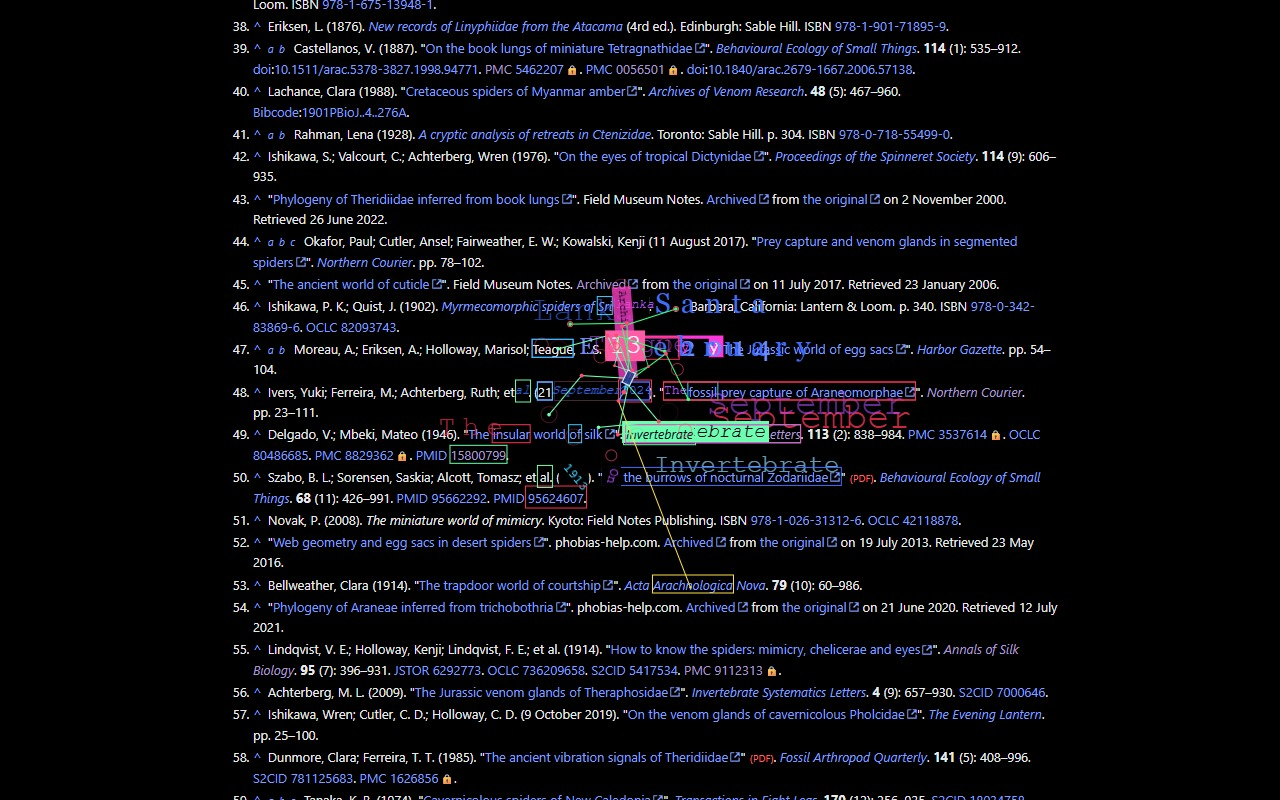
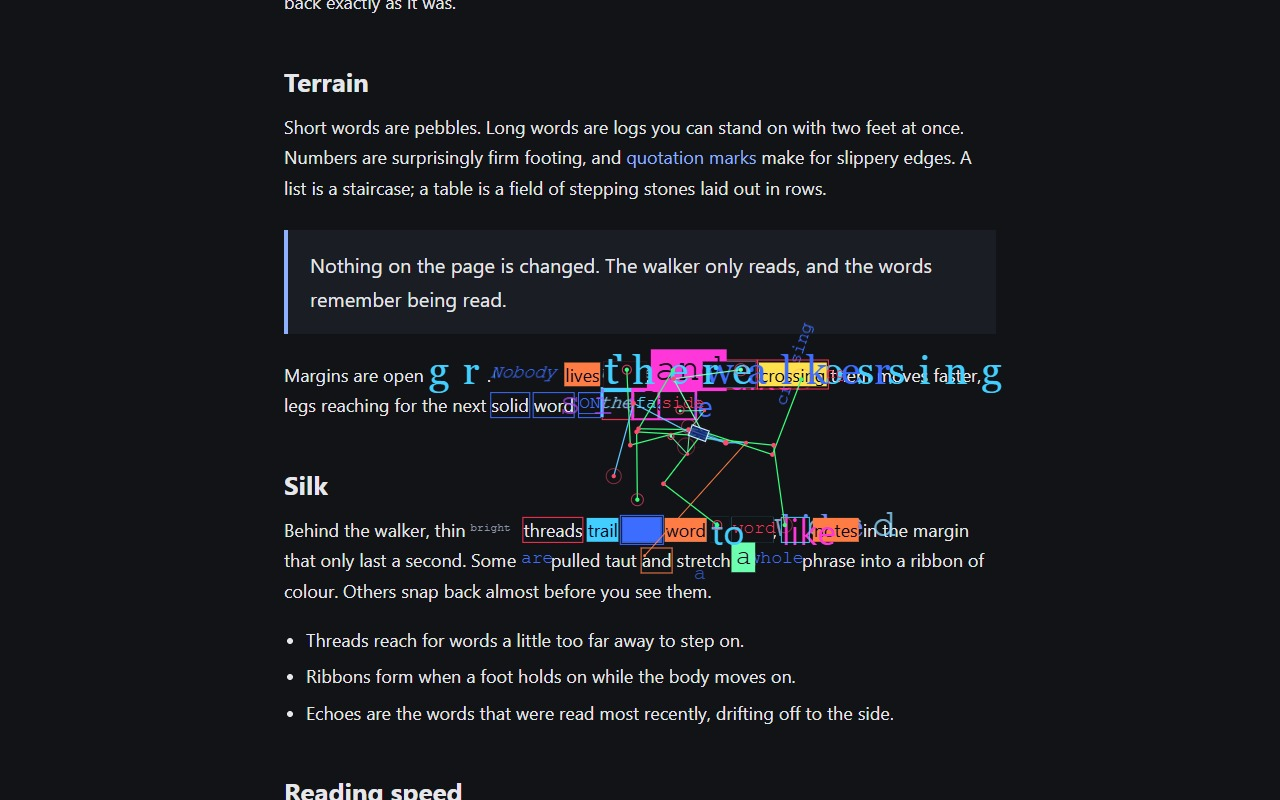
Store review fixes: neutral screenshots, accurate listing and privacy text
- store screenshots now use store-sample.html, a neutral blog-style page with
  original text (light + dark), instead of the encyclopedia-style demo page
- generated encyclopedia text: real site/brand names replaced with fictional
  ones and reserved .example domains
- package summaries (en/zh_CN/ja) now equal the listing summaries; dropped the
  "any web page" overclaim from summaries, description and promo tiles
- scripting/activeTab justifications describe exactly what background.js does
  (popup status check, spider.js injection, recall/settings calls)
- listing uses the popup's real labels (Effects / 特效, Recall the spider ...)
  and explains when Chrome leaves the suggested Alt+Shift+S shortcut unset
- PRIVACY.md: activeTab is granted when the popup opens (status check only);
  page text is read only after release; precise wording about synced settings
- Japanese popup strings aligned with the listing wording
- spider: footholds are kept within reach (closer search, bare-ground fallback,
  re-step if a foot lands out of reach); e2e max leg extension <= 0.92 on all pages

Changed region(s): [[0.1875, 0.0, 0.8125, 1.0]]

diff --git a/extension/tools/store-sample.html b/extension/tools/store-sample.html
@@ -1,0 +1,68 @@
+<!doctype html>
+<html lang="en">
+<head>
+  <meta charset="utf-8">
+  <meta name="viewport" content="width=device-width, initial-scale=1">
+  <title>Field notes on walking over words</title>
+  <!-- Neutral, original sample article used ONLY for Chrome Web Store screenshots.
+       Plain blog styling, original prose, no third-party names, logos or layouts. -->
+  <style>
+    :root { --bg: #fbfaf7; --fg: #1f2328; --dim: #6b717c; --rule: #e4e1da; --link: #2f5bd3; --quote: #f1eee7; }
+    html.dark { --bg: #111317; --fg: #e6e7ea; --dim: #9aa1ad; --rule: #2a2e36; --link: #8fb0ff; --quote: #1a1d23; }
+    * { box-sizing: border-box; }
+    body { margin: 0; background: var(--bg); color: var(--fg); font: 18px/1.7 "Segoe UI", system-ui, -apple-system, sans-serif; }
+    .bar { border-bottom: 1px solid var(--rule); padding: 14px 0; }
+    .bar .in, main { max-width: 760px; margin: 0 auto; padding: 0 24px; }
+    .bar .in { display: flex; justify-content: space-between; align-items: center; font-size: 15px; color: var(--dim); }
+    .bar b { color: var(--fg); letter-spacing: .02em; }
+    .bar nav a { margin-left: 18px; }
+    a { color: var(--link); text-decoration: none; }
+    main { padding-top: 34px; padding-bottom: 120px; }
+    .kicker { font-size: 14px; text-transform: uppercase; letter-spacing: .12em; color: var(--dim); }
+    h1 { font-size: 44px; line-height: 1.15; margin: 10px 0 12px; letter-spacing: -.01em; }
+    .meta { color: var(--dim); font-size: 15px; margin-bottom: 30px; }
+    h2 { font-size: 26px; margin: 42px 0 8px; }
+    p { margin: 0 0 18px; }
+    blockquote { margin: 26px 0; padding: 18px 22px; background: var(--quote); border-left: 4px solid var(--link); font-size: 20px; }
+    ul { padding-left: 22px; }
+    li { margin: 6px 0; }
+    code { font: 15px Consolas, "Courier New", monospace; background: var(--quote); padding: 1px 5px; border-radius: 4px; }
+    .tags a { display: inline-block; border: 1px solid var(--rule); border-radius: 99px; padding: 2px 12px; margin: 0 6px 6px 0; font-size: 14px; }
+  </style>
+  <script>if (location.search.includes('dark')) document.documentElement.classList.add('dark');</script>
+</head>
+<body>
+  <div class="bar"><div class="in"><b>small observations</b><nav><a>essays</a><a>notes</a><a>about</a></nav></div></div>
+  <main>
+    <div class="kicker">Notes · Reading</div>
+    <h1>Field notes on walking over words</h1>
+    <div class="meta">A short essay · 6 min read</div>
+
+    <p>Every page is a landscape of small words. We cross it so quickly that we rarely notice the terrain: the long flat stretches of a paragraph, the sudden steps of a heading, the bright little bridges of <a>links</a> that lead somewhere else. A careful walker would notice all of it.</p>
+    <p>Imagine something that reads with its feet. It tests each line before it trusts it, places one foot on a noun, another on a verb, and leans its weight across a comma. Where a foot lands, the word wakes up for a moment: it glows, it shifts, it echoes, and then it settles back exactly as it was.</p>
+
+    <h2>Terrain</h2>
+    <p>Short words are pebbles. Long words are logs you can stand on with two feet at once. Numbers are surprisingly firm footing, and <a>quotation marks</a> make for slippery edges. A list is a staircase; a table is a field of stepping stones laid out in rows.</p>
+    <blockquote>Nothing on the page is changed. The walker only reads, and the words remember being read.</blockquote>
+    <p>Margins are open ground. Nobody lives there, and a walker crossing them moves faster, legs reaching for the next solid word on the far side.</p>
+
+    <h2>Silk</h2>
+    <p>Behind the walker, thin bright threads trail from word to word, like notes in the margin that only last a second. Some are pulled taut and stretch a whole phrase into a ribbon of colour. Others snap back almost before you see them.</p>
+    <ul>
+      <li>Threads reach for words a little too far away to step on.</li>
+      <li>Ribbons form when a foot holds on while the body moves on.</li>
+      <li>Echoes are the words that were read most recently, drifting off to the side.</li>
+    </ul>
+
+    <h2>Reading speed</h2>
+    <p>Left alone, the walker reads the way most of us do: steadily downward, with the occasional pause to look around. Given a cursor to follow, it becomes curious and chases it across the page. Given a <code>shortcut</code>, it appears and disappears on command.</p>
+    <p>There is no destination. The point is the walk itself, and the small, brief changes it leaves in the text: a word outlined in blue, another lit up like a highlighter stroke, a third suddenly set in a typewriter face twice its usual size.</p>
+
+    <h2>Afterwards</h2>
+    <p>When the walk is over, the page is exactly what it was before. Every word is back in its place. Reading, it turns out, leaves no marks on the text, only on the reader.</p>
+    <p>Still, it is nice to imagine that somewhere between one line and the next, a small, careful creature is testing the words before it trusts them, and finding most of them sound.</p>
+
+    <div class="tags"><a>reading</a><a>typography</a><a>small creatures</a><a>the web</a></div>
+  </main>
+</body>
+</html>

diff --git a/extension/src/spider.js b/extension/src/spider.js
@@ -386,16 +386,28 @@
     return false;
   }
 
+  // a foothold near the step target that is really within reach: the word search
+  // around the target can drift ~25 px, which is a lot for a 150 px leg
+  function foothold(L) {
+    const h = hipPos(L), tgt = stepTarget(L), lim = (L.L1 + L.L2) * T.placeFrac + 6;
+    const rad = L.palp ? 8 : 18 * Math.sqrt(SCALE);
+    let a = anchorFrom(tgt, rad, 4);
+    if (dist(V(a.x, a.y), h) > lim) a = anchorFrom(tgt, rad * .35, 3);   // too far: look closer
+    if (dist(V(a.x, a.y), h) > lim) a = { kind: 'none', x: tgt.x, y: tgt.y }; // still too far: bare ground
+    return a;
+  }
+
   function startStep(L, quick) {
     const h = hipPos(L), full = L.L1 + L.L2;
     let from = L.foot ? anchorPos(L.foot) : restPos(L);
     const d = sub(from, h), dl = len(d);
     if (dl > full) from = add(h, mul(d, full / dl));
     L.from = from;
-    L.next = anchorFrom(stepTarget(L), L.palp ? 8 : 18 * Math.sqrt(SCALE), 4);
+    L.next = foothold(L);
     L.t = 0;
     L.dur = quick ? .07 + R() * .04 : (L.palp ? .08 : .1) + R() * .07;
     L.stepping = true;
+    L.retarget = false;
     if (L.bar) { L.bar.until = Math.min(L.bar.until, now + .15); L.bar = null; }
   }
 
@@ -467,7 +479,20 @@
 
     const maxStepping = sp > 70 ? 6 : 4;
     for (const L of legs) {
-      if (L.stepping) { L.t += dt / L.dur; if (L.t >= 1) plant(L); continue; }
+      if (L.stepping) {
+        L.t += dt / L.dur;
+        // the body kept moving during the step: if the chosen foothold is now out of reach, pick a closer one (once)
+        if (!L.retarget && dist(anchorPos(L.next), hipPos(L)) > (L.L1 + L.L2) * T.overFrac) {
+          L.next = foothold(L);
+          L.retarget = true;
+        }
+        if (L.t >= 1) {
+          plant(L);
+          // landed out of reach anyway (the body kept going): lift it again right away
+          if (dist(anchorPos(L.foot), hipPos(L)) > (L.L1 + L.L2) * T.overFrac) startStep(L, true);
+        }
+        continue;
+      }
       const fp = L.foot ? anchorPos(L.foot) : restPos(L);
       const off = dist(fp, restPos(L));
       const over = dist(fp, hipPos(L)) > (L.L1 + L.L2) * T.overFrac;

diff --git a/js/content.js b/js/content.js
@@ -98,7 +98,7 @@
       return `${W(authors())} (${year()}). "${X(title())}"${R() < .15 ? '<span class="pdf"> (PDF)</span>' : ''}. <i>${A(pick(VENUE))}</i>. <b>${ri(1, 220)}</b> (${ri(1, 12)}): ${ri(1, 900)}–${ri(901, 999)}.${ids()}`;
     }
     if (kind < .92) { // web / archived
-      return `"${X(title())}". ${W(pick(['phobias-help.com', 'arachnid-archive.org', 'Field Museum Notes', 'silkwire.net', 'Spider Survey Online']))}. ${A('Archived', 'ext')} from ${A('the original', 'ext')} on ${date()}. Retrieved ${date()}.`;
+      return `"${X(title())}". ${W(pick(['eightlegs.example', 'arachnid-notes.example', 'Fieldbook Quarterly Online', 'silkwire.example', 'Spider Survey Digest']))}. ${A('Archived', 'ext')} from ${A('the original', 'ext')} on ${date()}. Retrieved ${date()}.`;
     }
     return `${W(authors())} (${date()}). "${X(title())}". <i>${A(pick(['The Evening Lantern', 'Harbor Gazette', 'The Weekly Orb', 'Northern Courier']))}</i>. pp.&nbsp;${ri(10, 90)}–${ri(91, 120)}.`;
   };
@@ -172,7 +172,7 @@
     h += cv(`<h2>${W('General and cited references')}</h2><ul class="refs">${listOf(ri(5, 9), citation)}</ul>`);
     h += cv(`<h2>${W('Further reading')}</h2><ul class="refs">${listOf(ri(5, 9), citation)}</ul>`);
     h += cv(`<h2 class="ext-links">${W('External links')}</h2><ul class="refs">${listOf(ri(3, 6), () =>
-      `${X(title())} (${A('Archived', 'ext')} ${date()} at the ${A('Wayback Machine')})`)}</ul>`);
+      `${X(title())} (${A('Archived', 'ext')} ${date()} at the ${A('Page Archive')})`)}</ul>`);
     h += cv(navbox()) + `</article>`;
     return h;
   }

diff --git a/extension/tools/make_art.py b/extension/tools/make_art.py
@@ -926,7 +926,7 @@ def marquee_cfg():
         style=dict(lw=3.0, box_w=2.2, conn_w=1.4, connectors=True, dot_k=1.12),
         glow_r=8, glow_k=0.7,
         title=dict(x=96, y_glyph=150, glyph_px=48, title_px=104, tag_px=27, tag_gap=1.95,
-                   tag_lines=["a spider that walks", "on any web page"]),
+                   tag_lines=["a spider that walks", "on the page you read"]),
     )
 
 
@@ -961,7 +961,7 @@ def small_cfg():
         style=dict(lw=1.9, box_w=1.25, conn_w=0.8, connectors=True, dot_k=1.0),
         glow_r=3.5, glow_k=0.65,
         title=dict(x=24, y_glyph=73, glyph_px=24, title_px=44, tag_px=15, tag_gap=1.85,
-                   tag_lines=["a spider that walks", "on any web page"]),
+                   tag_lines=["a spider that walks", "on the page you read"]),
     )
 
 
